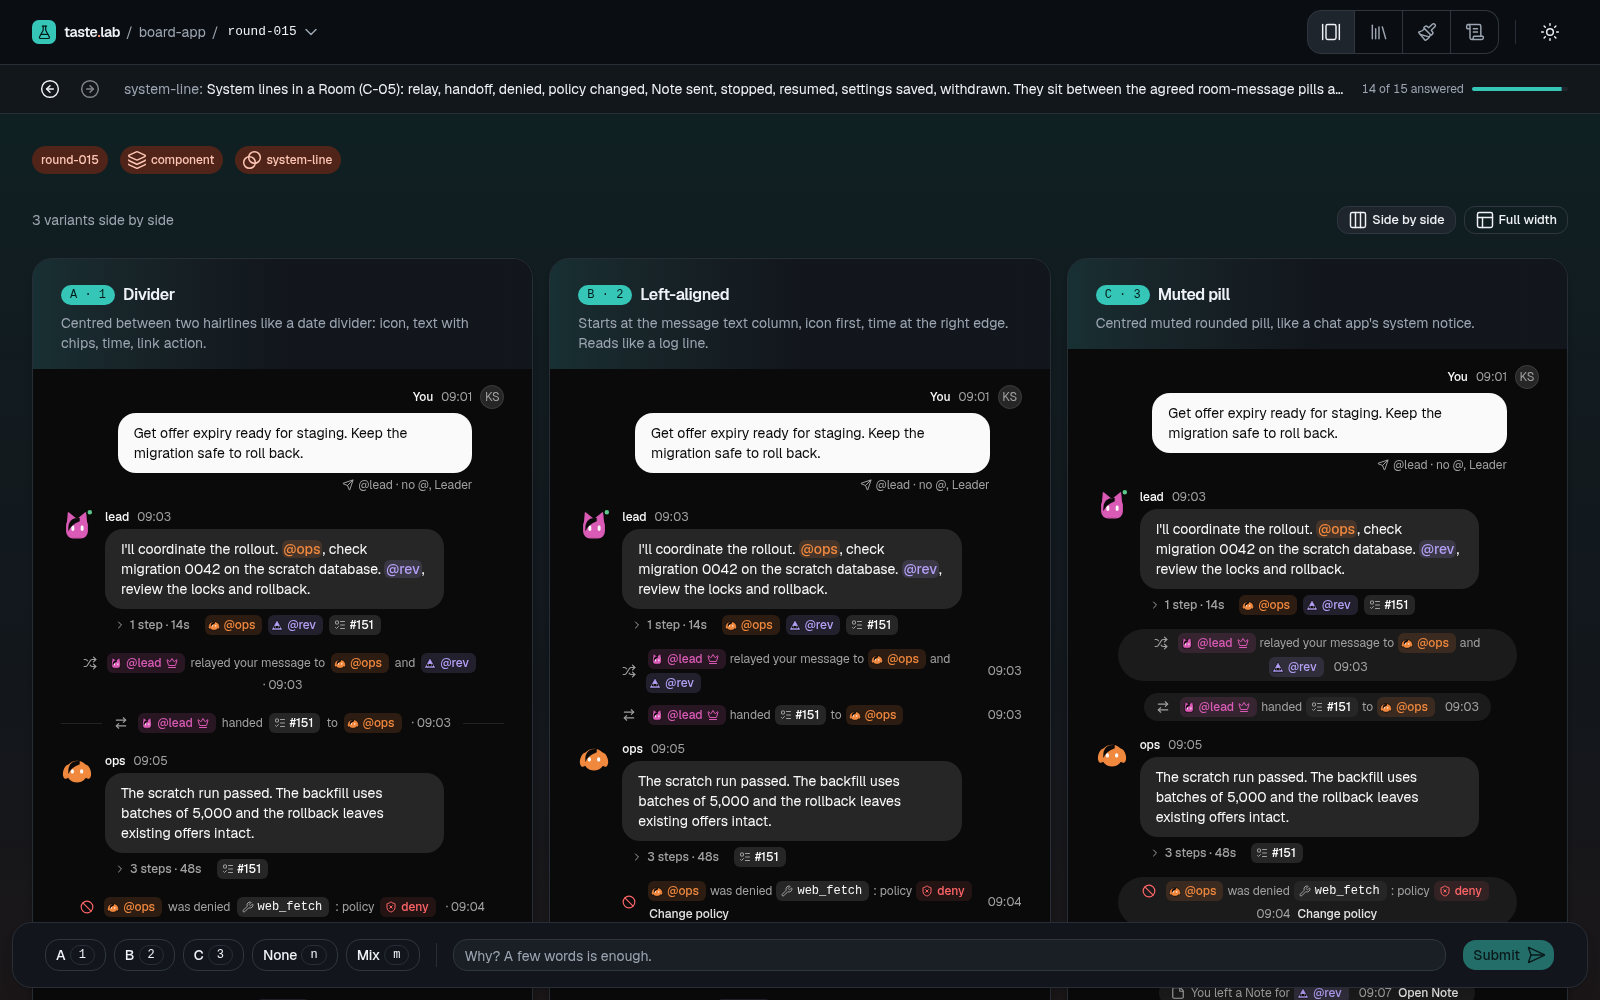
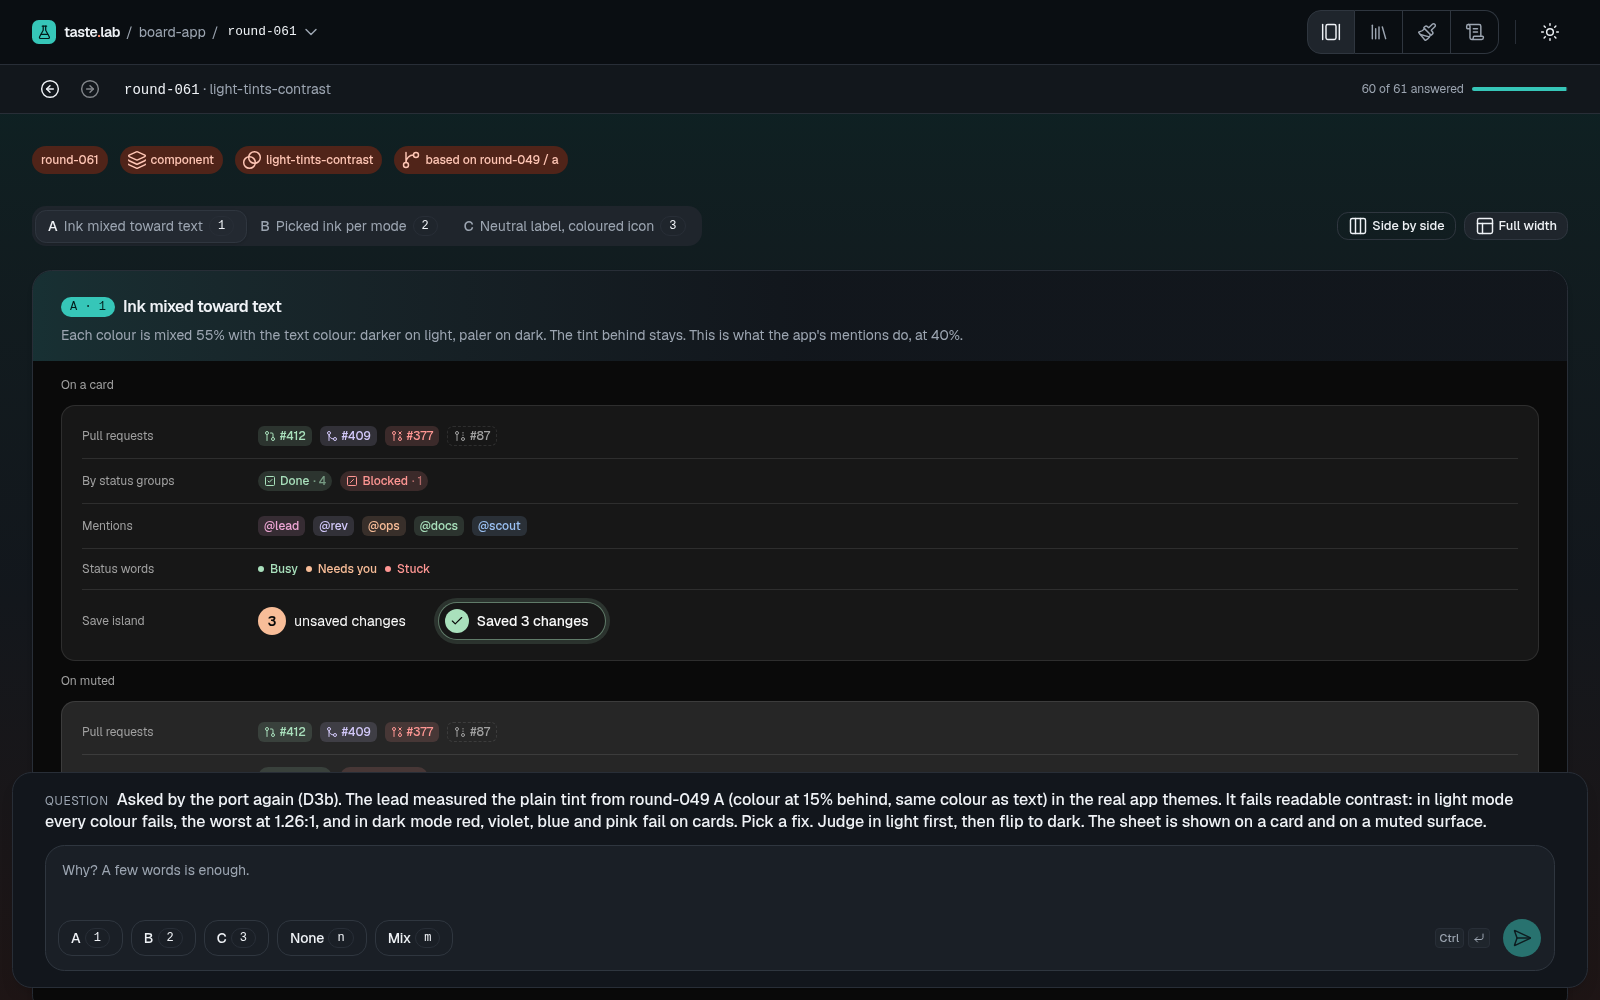
docs: minimal README with fresh screenshots (#21)

diff --git a/README.md b/README.md
@@ -1,197 +1,36 @@
 # taste.lab
 
-A local shadcn lab for tuning UI taste with an agent. You compare 2 to 4 component variants side by side, pick one and say why. The agent reads that log and writes the next round. The app never calls an LLM.
+Tune UI taste with your coding agent. You compare 2 to 4 variants of a component, pick one and say why. The agent reads your answer and writes the next round. What you agree on goes into a component library inside your repo.
 
-The taste data for an app lives in a `.taste-lab` folder in that app's repo, committed with the app. One lab serves any such folder. Agreed components go into a library inside that folder, ready for another session to build into the app.
+![Compare: three variants side by side, the question and your answer at the bottom](docs/screenshots/compare.png)
 
-![Compare: three variants of a chat system line side by side, with the answer bar at the bottom](docs/screenshots/compare.png)
-
-| Library                                                                                               | History                                                                         |
-| ----------------------------------------------------------------------------------------------------- | ------------------------------------------------------------------------------- |
-| ![Library: agreed components with examples, a live canvas and controls](docs/screenshots/library.png) | ![History: every answer with its pick and reason](docs/screenshots/history.png) |
-
-Screenshots: the lab serving the `.taste-lab` folder of a real app, in dark mode.
+| Library                                                                               | History                                                              |
+| ------------------------------------------------------------------------------------- | -------------------------------------------------------------------- |
+| ![Library: agreed components, live canvas and controls](docs/screenshots/library.png) | ![History: every pick with its reason](docs/screenshots/history.png) |
 
 ## Install
 
-You need Node 23.6 or newer (it runs the TypeScript sources directly) and pnpm.
-
-As a [pi](https://pi.dev) package, which gives you the `/taste` command and the `taste` skill:
+Needs Node 23.6+ and [pi](https://pi.dev).
 
 ```sh
 pi install git:github.com/JakubSzwajka/taste-lab
 ```
 
-Or from a clone, which also gives you the `taste-lab` CLI:
-
-```sh
-git clone https://github.com/JakubSzwajka/taste-lab
-cd taste-lab
-pnpm install
-pi install .   # optional: the pi package from this clone
-```
-
-## Run
-
-```sh
-pnpm install
-pnpm dev     # serves the demo in examples/demo/.taste-lab, prints a 127.0.0.1 URL
-```
-
-For another repo, from any folder:
-
-```sh
-node <taste-lab>/bin/taste-lab.mjs init  --dir ../my-app/.taste-lab
-node <taste-lab>/bin/taste-lab.mjs check --dir ../my-app/.taste-lab
-node <taste-lab>/bin/taste-lab.mjs serve --dir ../my-app/.taste-lab [--port N] [--lan [--host <ip>]]
-```
-
-`init` creates the folder with a sample fixture, an empty `library/` and an empty `theme.css`, and refuses to overwrite one that exists. `check` validates `theme.css`, rounds and `library/` entries and scans variant and library files; it exits 1 and lists the problems when something is wrong. `serve` starts the lab on 127.0.0.1. Without `--port` it takes the first free port from 5300, skipping 3000, 3326, 5173 and 5310.
-
-`check` loads `fixtures/index.ts` and needs both exports: `fixtures` and `fixtureKeys` (the same keys). It reports broken files, dangling or looping symlinks and unreadable paths as problems. Data dir paths may contain spaces, quotes (not both kinds) and `$`. `serve`, `init` and `check` reject paths with a line break or control character, a backslash, `*`, `{` or `}`, or both quote kinds: Tailwind reads its `@source` path raw as a glob and cannot carry them.
-
-### Open the lab from another device on your LAN
-
-`serve --lan` binds one private IPv4 address instead of 127.0.0.1 and prints a link with a token:
-
-```sh
-node <taste-lab>/bin/taste-lab.mjs serve --dir ../my-app/.taste-lab --lan
-#   LAN address 192.168.1.50 (wlan0). The link token changes on every run.
-#   http://192.168.1.50:5301/?k=<token>
-```
-
-- The address is the interface that carries the default route (read from `/proc/net/route`, Linux only). Without a default route, it is the first private IPv4 that is not on a docker, bridge, veth, libvirt or tunnel interface. The output names other candidates.
-- `--host <ip>` picks the address yourself. It must be a private or loopback IPv4 (10/8, 172.16/12, 192.168/16, 127/8). `--host` without `--lan` is a usage error (exit 2). The server never binds 0.0.0.0.
-- Open the printed link once. The server swaps `?k=` for a cookie (`taste_lab_<port>`, `HttpOnly`, `SameSite=Strict`) and redirects to the same page without `k`. The app never sees the token, and nothing is kept in `localStorage`.
-- The token is 128 random bits, made at start. It lives in server memory, the printed URL and that browser cookie only. It is never written to disk or into the data dir, and Vite never sees a URL that carries it, so it stays out of `DEBUG=vite:*` logs. It changes on every run, so an old link or cookie stops working after a restart.
-- Protected: every HTTP request, including the page, modules, `/@fs` files, assets, `/api/taste` and the HMR WebSocket. A request needs a private remote address, `Host` equal to `<ip>:<port>`, an `Origin` (if sent) equal to `http://<ip>:<port>` and the cookie. A bad address, Host or Origin gets 403. A missing or wrong cookie gets 401 and a page that says "Open the link printed by `taste-lab serve --lan`". The JSON content type, size limit and validation rules of the API still apply.
-- The gate covers listeners attached before it, which today is all of Vite's HTTP and HMR handlers. A listener added later, such as a configured `server.proxy`, is not covered. The lab configures no proxy.
-- Anyone on the LAN who has the link can read everything the lab serves, including the round and library source. Use it on a network you trust. There is no HTTPS, so the token and cookie travel in clear text.
-- In every mode, Vite refuses to serve `taste.jsonl` as a file (`server.fs.deny`). The app reads the log only through `/api/taste`.
-- Vite public serving is off (`publicDir: false`), so nothing is served from a `public/` folder. A data dir inside the lab's `public/` folder is also rejected (symlinks followed), as defense in depth.
-- Without `--lan`, nothing changes: 127.0.0.1 only, no token.
-
-Node version is pinned in `.node-version`. pnpm version is in `package.json`.
-
-### Use it from pi
-
-This repo is a [pi](https://pi.dev) package with a `/taste` command and a `taste` skill. Install it once, see "Install". A local clone needs `pnpm install` first, because the package uses the clone's own `node_modules`.
-
-Then, in a pi session in any repo:
-
-| Command               | Does                                                                                                          |
-| --------------------- | ------------------------------------------------------------------------------------------------------------- |
-| `/taste`              | Serves `<cwd>/.taste-lab` on 127.0.0.1 and the LAN. Shows both links. Offers `init` if the folder is missing. |
-| `/taste local`        | Same, without the LAN listener and link.                                                                      |
-| `/taste --dir <path>` | Serves another data dir. Combines with `local`.                                                               |
-| `/taste status`       | Shows the links again, or "starting…" while the server is still starting.                                     |
-| `/taste qr`           | Shows a private LAN QR code in pi's terminal UI for your phone. No code in local-only mode.                   |
-| `/taste stop`         | Stops the server. Quitting pi stops it too.                                                                   |
-
-taste.lab uses pi's active theme. A compact widget below the editor shows the app name, links and round progress, updated on each answer. The status item shows the port and whether LAN is on. Links and QR codes stay in pi's UI only, never in model messages or session files. Keep the LAN link and QR code private.
-
-The transcript shows compact started and answer lines, including the pick's variant label and your reason. Each answer you log wakes the agent with the same safe text as before (`answered round-NNN (...): pick b; tags ...; reason ...`). The `taste` skill then has it write the next round, run `check` and ask you to refresh. If the agent is busy, the answer waits until its current run ends.
-
-The server's stderr goes to a log in a private folder in the OS temp dir (`taste-lab-pi-XXXXXX/`, mode 0700, file mode 0600). If the server dies, pi says so and names that log.
-
 ## Use
 
-1. Open the URL. The current round is the first one with no answer.
-   The header has two rows. The top row shows the taste.lab logo, then `<name> / <round>`. Click the round to open a menu of every round with its status (pick, open or error). On the right are icon buttons for Compare, Library, Theme and History, then the light or dark switch. On Compare pages, a second row shows `<` and `>` to step through rounds, the round id and component, its pick or error badge and "n of N answered".
-2. Toggle light or dark. All variants switch.
-3. Compare has no page heading. The full question wraps at the top of the floating answer bar, at 16px medium with a small muted uppercase "Question" label (round-019 d). Below it is one box for the whole answer: the reason on top, then the picks (A to D, None, Mix) on the left of its bottom row and a round Submit button on the right, with a Ctrl↵ or ⌘↵ hint for your platform. The reason grows from about 2 rows to 8, then scrolls. There are no tags. Mix needs a reason.
-   Keys: `1` to `4` pick and show that variant, `n` picks None, `m` picks Mix and focuses the reason, `r` focuses the reason and `Esc` leaves it. In the reason, Enter and Shift+Enter insert a newline; Ctrl+Enter or Cmd+Enter submits. Pasted line breaks are kept. On the page, Enter submits unless a button, link or toggle has focus.
-   A view switch ("Side by side" or "Full width") sits above the variants. Full width shows one variant at full page width with A/B/C tabs. `←` and `→` flip between variants and wrap around. Number keys pick and also show that variant. Arrow keys do nothing while the reason box or a toggle, tab or menu has focus. Use full width for tables and layouts that need room.
-4. Each submit appends one line to `.taste-lab/taste.jsonl` in the served folder and moves to the next round.
-5. Open History to see past answers, newest first, in one table. Each row has the date, the round (a link to it), a pick pill with the winning variant's label, tag pills (old answers only), the reason, and the theme and view as icons.
-6. Open Library to see the agreed components, laid out like Storybook and filling the screen under the header. The left sidebar lists entries and their examples; its trigger (or Ctrl/Cmd+B) hides it, and on a phone it slides in as a sheet. The Canvas tab shows one example live, with a toolbar for width (Column 420 or Full width), a light or dark canvas, and a plain or muted background. When the entry declares controls, a Controls panel at the bottom edits its props live. Drag its top edge to resize it, collapse it to its header bar, or expand it to fill the page. The sizes stay after a reload. The Docs tab has the description, rules and the rounds it came from (links to `#/round/<id>`).
+In any repo, in pi:
 
-7. Open Theme to see every shadcn token in one table, grouped by role, with its light and dark value and a chip of each. A pill marks values from `theme.css`; the rest are stock. Filter to theme.css or stock tokens. Ignored parts of `theme.css` are listed on top. `--radius` shows as a sample box.
+| Command        | Does                                                |
+| -------------- | --------------------------------------------------- |
+| `/taste`       | Serves `<repo>/.taste-lab` locally and on your LAN. |
+| `/taste local` | Local only.                                         |
+| `/taste qr`    | Shows the LAN link as a QR code for your phone.     |
+| `/taste stop`  | Stops the lab.                                      |
 
-With no rounds in `.taste-lab/rounds/`, the app shows a "no rounds yet" screen.
+Ask the agent for a round, answer it in the browser, repeat. Your taste data lives in `.taste-lab/` and is committed with your app.
 
-## The lab for taste-lab itself
-
-The repo root has its own data dir, `.taste-lab/`, so taste-lab's interface is tuned with taste-lab. Its rounds compare designs for the app chrome, starting with the header (round-001). Its `theme.css` starts from the demo's round-007 a blue accent. A pick there becomes a change in `src/` afterwards.
-
-```sh
-node bin/taste-lab.mjs serve --dir .taste-lab
-```
-
-`pnpm dev` still serves the demo. `pnpm check` type-checks both labs (`tsconfig.lab.json` points `@/fixtures` at the root lab) and `pnpm test` runs the variant rules and `check` on both.
-
-## Scripts
-
-| Script         | Does                                                      |
-| -------------- | --------------------------------------------------------- |
-| `pnpm dev`     | `taste-lab serve` for the demo, on 127.0.0.1              |
-| `pnpm check`   | `tsc` for the demo and the root lab, then Biome           |
-| `pnpm test`    | Vitest                                                    |
-| `pnpm build`   | type check and Vite build                                 |
-| `pnpm preview` | serve the build on 127.0.0.1 (the log API works here too) |
-
-## Layout
-
-A data dir, committed in each app repo:
-
-```
-<repo>/.taste-lab/
-  config.json         { "version": 1, "name": "<app name>" }, name defaults to <repo>
-  fixtures/index.ts   sample data for variants, imported as @/fixtures
-  theme.css           shadcn tokens for this app, over the lab's stock theme (see Theme)
-  rounds/round-NNN/   rounds written by the agent (round.json + a.tsx, b.tsx, ...)
-  library/<name>/     agreed components: <Name>.tsx, examples.tsx, meta.json
-  taste.jsonl         append-only answer log
-  DESIGN.md           distilled rules for this app
-```
-
-This repo:
-
-```
-bin/taste-lab.mjs        CLI entry (Node runs the TypeScript in cli/ directly)
-cli/                     serve, init, check, port picking, variant scanner
-pi/                      pi package: /taste extension, taste skill, helpers in pi/lib
-examples/demo/.taste-lab the demo data dir (rounds 1 to 7, round-007 a accent in theme.css)
-.taste-lab/              the lab for taste-lab's own interface
-server/                  Vite plugin and /api/taste middleware
-src/                     lab UI
-src/components/ui/       stock shadcn primitives, generated, not hand-edited
-tests/                   loader, library, log writer, CLI, variant rule and pi extension tests
-```
-
-## Theme
-
-`<dir>/theme.css` holds the shadcn tokens this app's lab renders with: rounds, library, history and the app chrome. The lab's own `src/index.css` is the stock theme. Without a `theme.css`, or with empty blocks, you see stock.
-
-```css
-/* theme.css: only :root (light) and .dark, only shadcn custom properties */
-:root {
-  --primary: oklch(0.55 0.2 255);
-}
-.dark {
-  --primary: oklch(0.75 0.15 255);
-}
-```
-
-- Allowed: `:root` and `.dark` blocks, comments, and custom properties named like the variables in `src/index.css` (`--background`, `--primary`, `--radius`, `--chart-1` to `--chart-5`, `--sidebar-*` and the `-foreground` pairs). Raw colors are fine here. This file is the one place they live.
-- Not allowed: other selectors, at-rules, `@import`, `url()`, `!important`, other names, non-custom properties. `taste-lab check` lists each with its line. The app ignores a rejected part and the Theme page lists it.
-- Order: stock tokens, then `theme.css`, then each variant's `round.json` `tokens`. Round tokens win.
-- A token missing from a mode falls back to stock for that mode. A `:root` value does not change the stock `.dark` value. A token that stock defines only in `:root`, like `--radius`, applies to both modes.
-- A `theme.css` created, edited or deleted while the server runs updates the page without a restart or reload.
-- Do not use `light-dark()` in `theme.css`. Write the two values into `:root` and `.dark`.
-
-To promote a token round winner, copy the winning variant's `tokens` into `:root` and `.dark`. Split each `light-dark(a, b)` into `a` in `:root` and `b` in `.dark`. Cite the round in a comment next to the values and in the Tokens table of `DESIGN.md`. Then run `check`.
-
-## Library
-
-`library/<name>/` holds a component the operator agreed on, with examples and provenance. Names are kebab-case. The component is a named export `<Name>` in `<Name>.tsx`, takes its data through props and follows the variant rules (shadcn only, no raw colors, no `style` prop). `examples.tsx` holds named components with no required props, one per example or state, and may import `@/fixtures`. `meta.json` has `name`, `title`, `description`, `status` (`draft` or `agreed`), `examples` (`export`, `title`, `width` of `column` or `full`, optional `args`), `provenance` (`round`, `pick`, `note`), `rules` and optional `controls`.
-
-`controls` lists the props the Controls panel edits: `{ "prop", "kind", "options"?, "default"?, "label"? }`, with `kind` one of `boolean`, `select`, `text` or `number`. Only `select` takes `options`, and it needs them. An example's `args` sets its starting values; each key must be a declared prop. The canvas renders `<Example {...values} />`, and the example merges those values over its fixture data. `check` validates both. The full rules are in [AGENTS.md](AGENTS.md).
-
-Round variants can import a library component as `@/library/<name>/<Name>`, to iterate on an agreed component. To promote a winner, copy the winning variant into `library/<name>/`, turn the fixture use into props, add examples and write `meta.json` with the rounds it came from. Details and the full contract are in [AGENTS.md](AGENTS.md). Variants may also import `class-variance-authority`, so a round can copy a library component that uses `cva`.
-
-Rules for variants, the round and log contracts, and the agent loop are in [AGENTS.md](AGENTS.md).
+The contract for agents (rounds, library, theme, CLI) is in [AGENTS.md](AGENTS.md).
 
 ## License
 
-MIT. See [LICENSE](LICENSE).
+MIT
